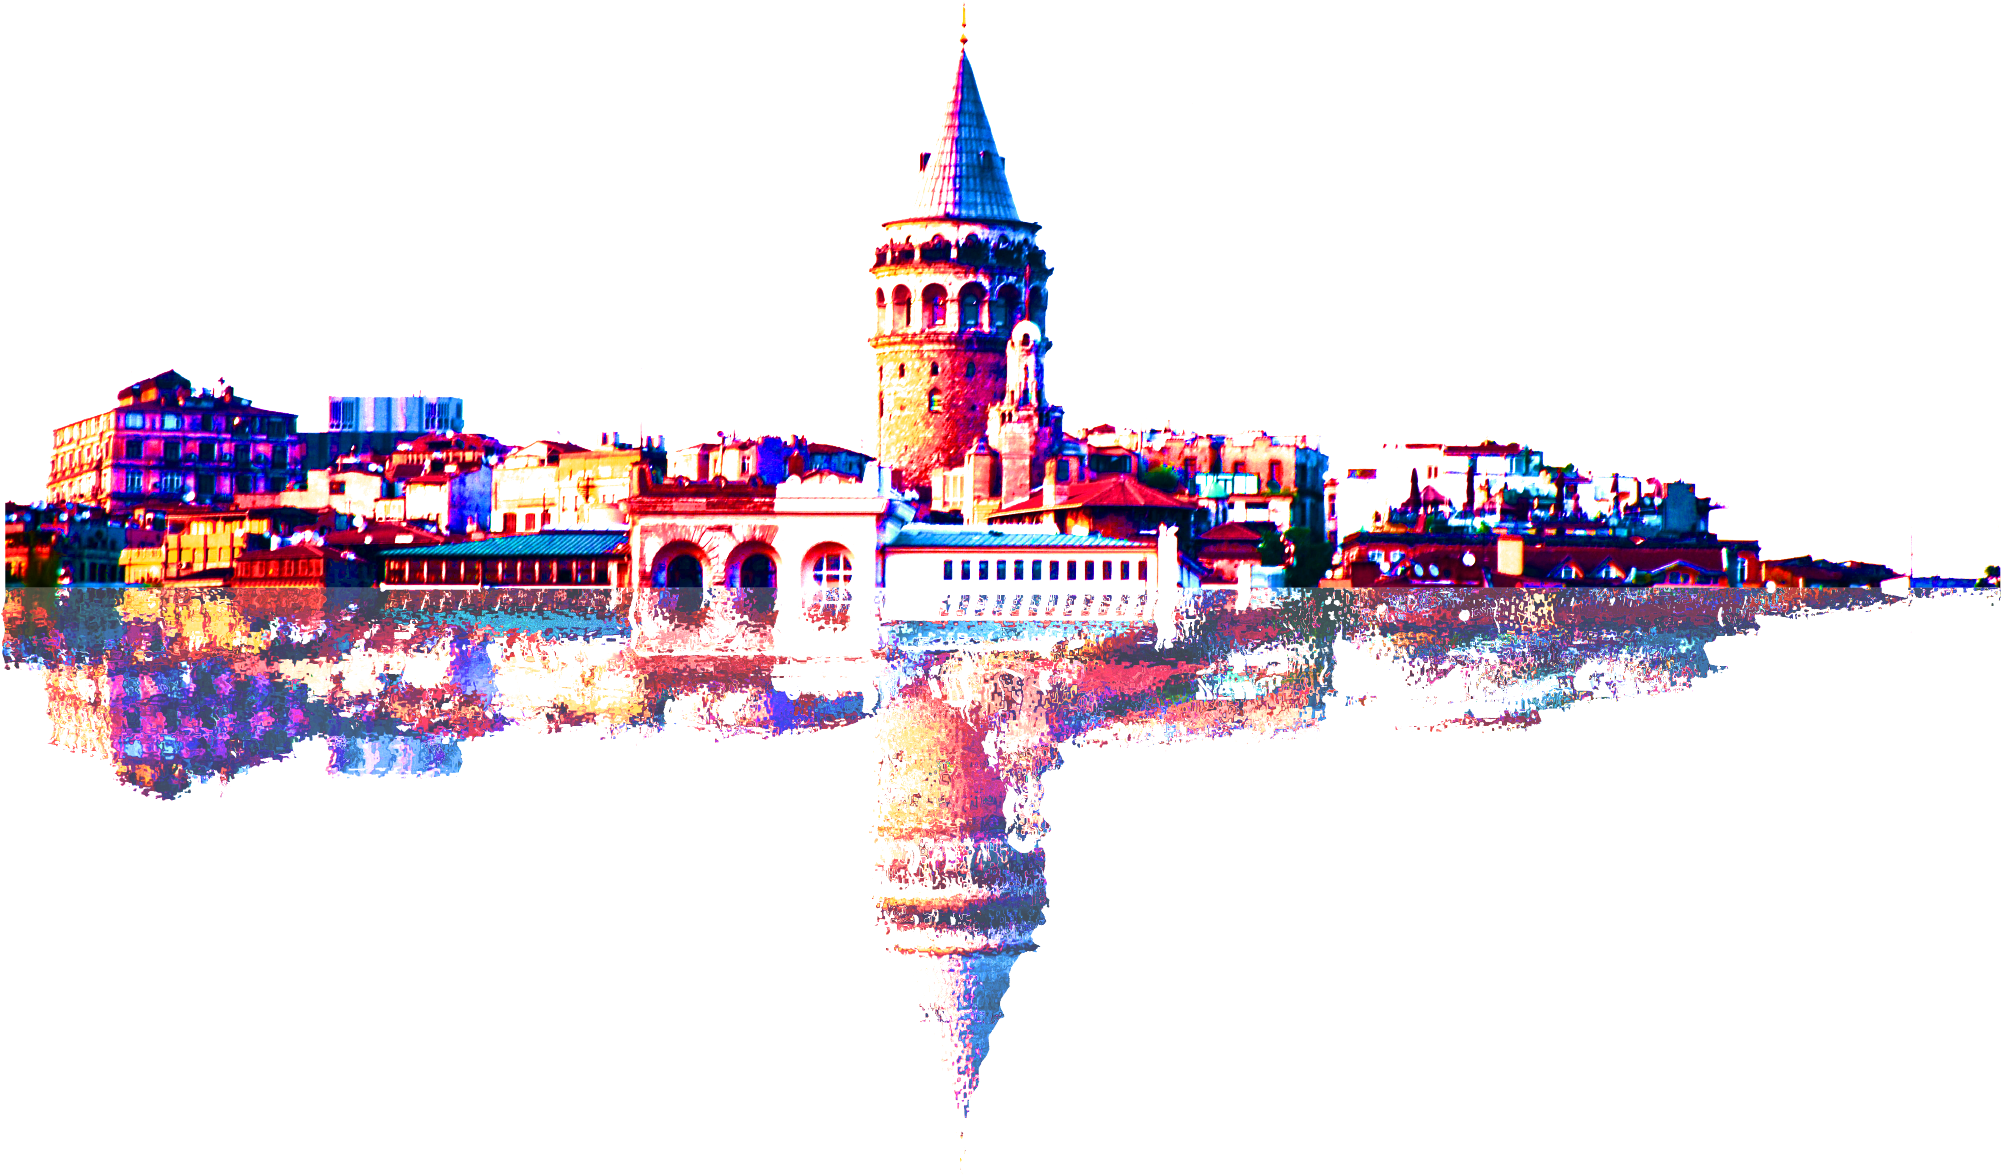
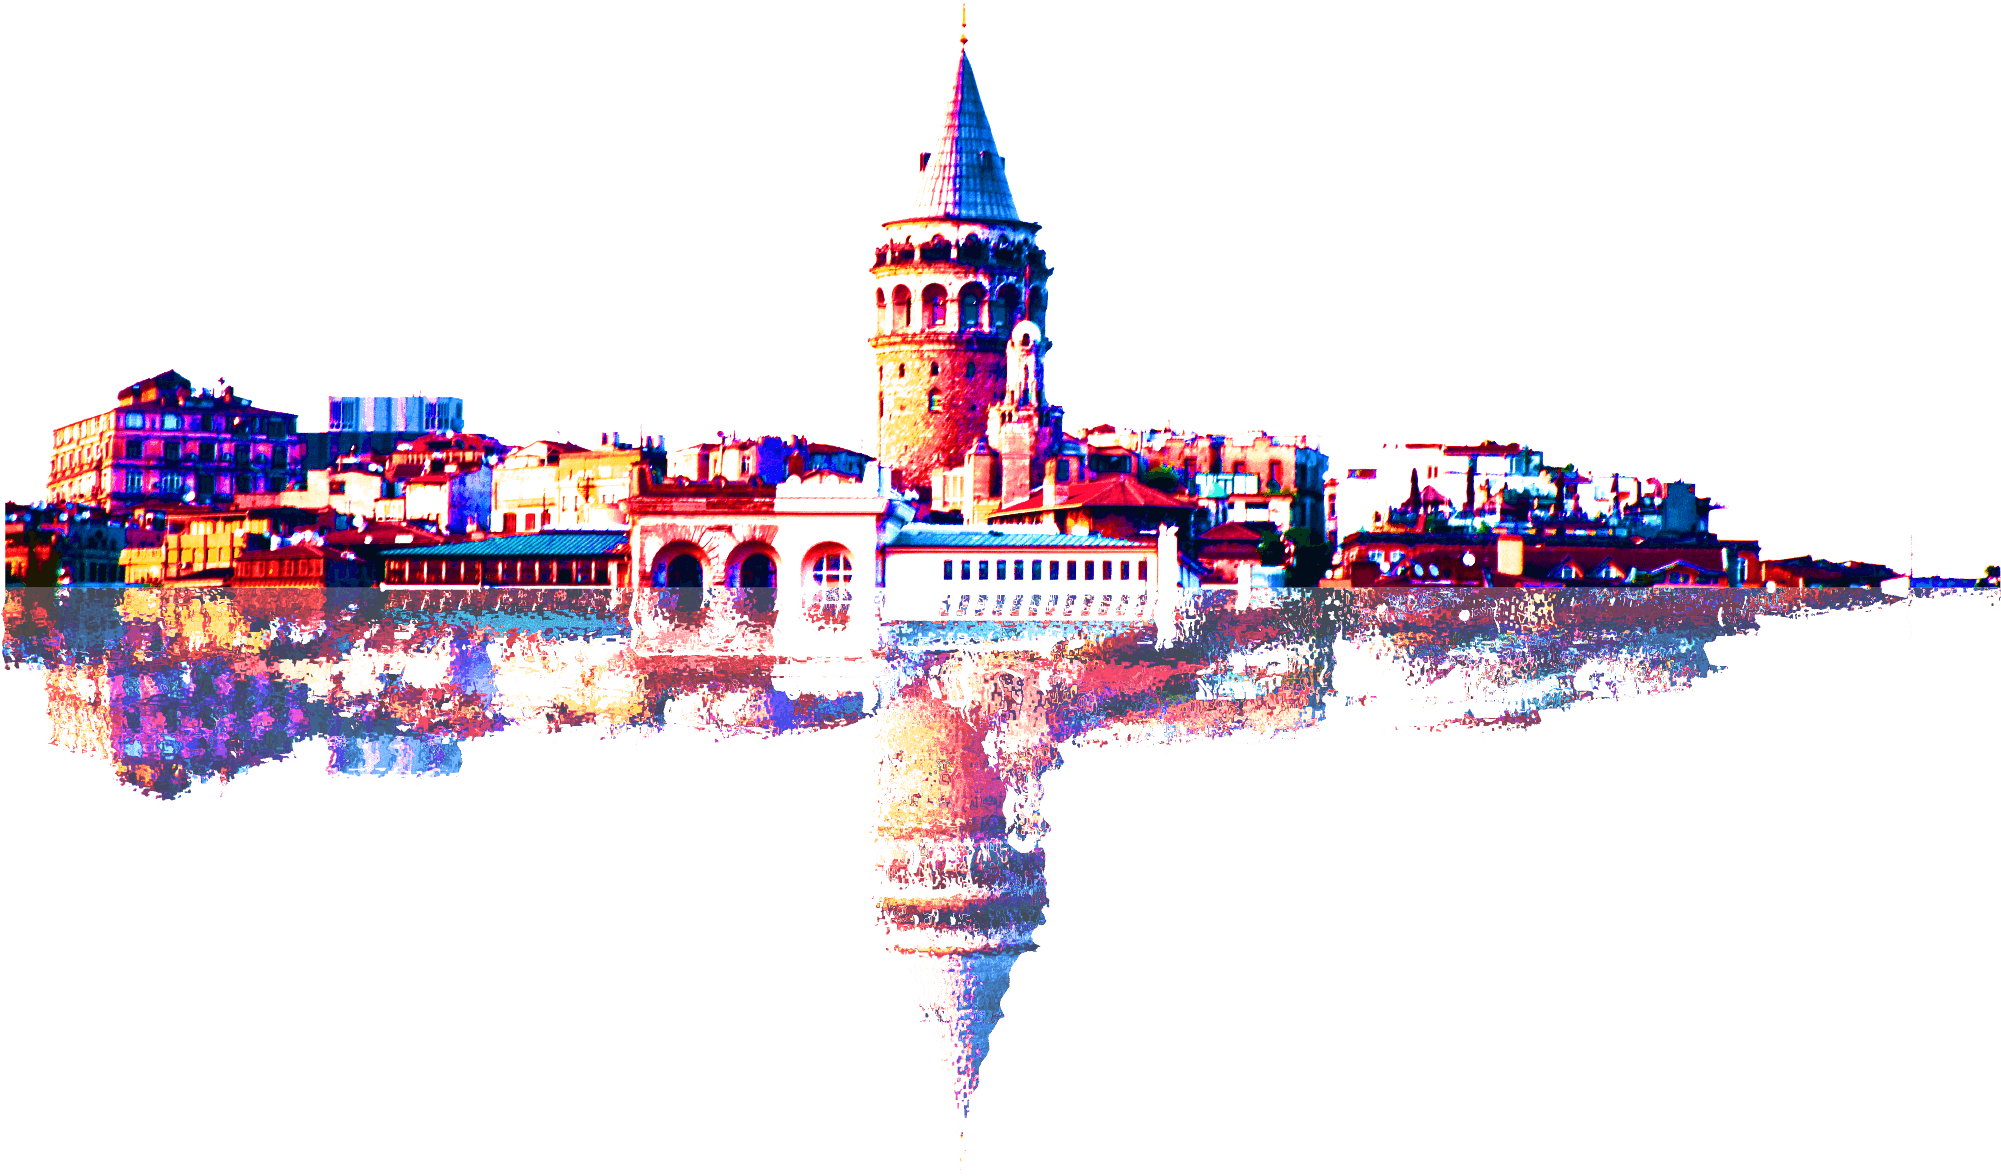
Background image size optimized for faster load Background image loaded as stylesheet for preload

diff --git a/index.html b/index.html
@@ -9,11 +9,12 @@
   <title>DevOpsDays İstanbul</title>
 
   <!-- Bootstrap -->
+  <link href="img/devopsdays-istanbul-galata-background.png" rel="stylesheet" type="image/png"/>
   <link href="css/bootstrap.min.css" rel="stylesheet">
   <link href="css/style.css" rel="stylesheet">
   <link href="css/gears.css" rel="stylesheet">
   <link href="css/themify-icons.css" rel="stylesheet">
-  <link href='css/dosis-font.css' rel='stylesheet' type='text/css'>
+  <link href="css/dosis-font.css" rel="stylesheet" type="text/css">
   <!-- HTML5 shim and Respond.js for IE8 support of HTML5 elements and media queries -->
   <!-- WARNING: Respond.js doesn't work if you view the page via file:// -->
     <!--[if lt IE 9]>
